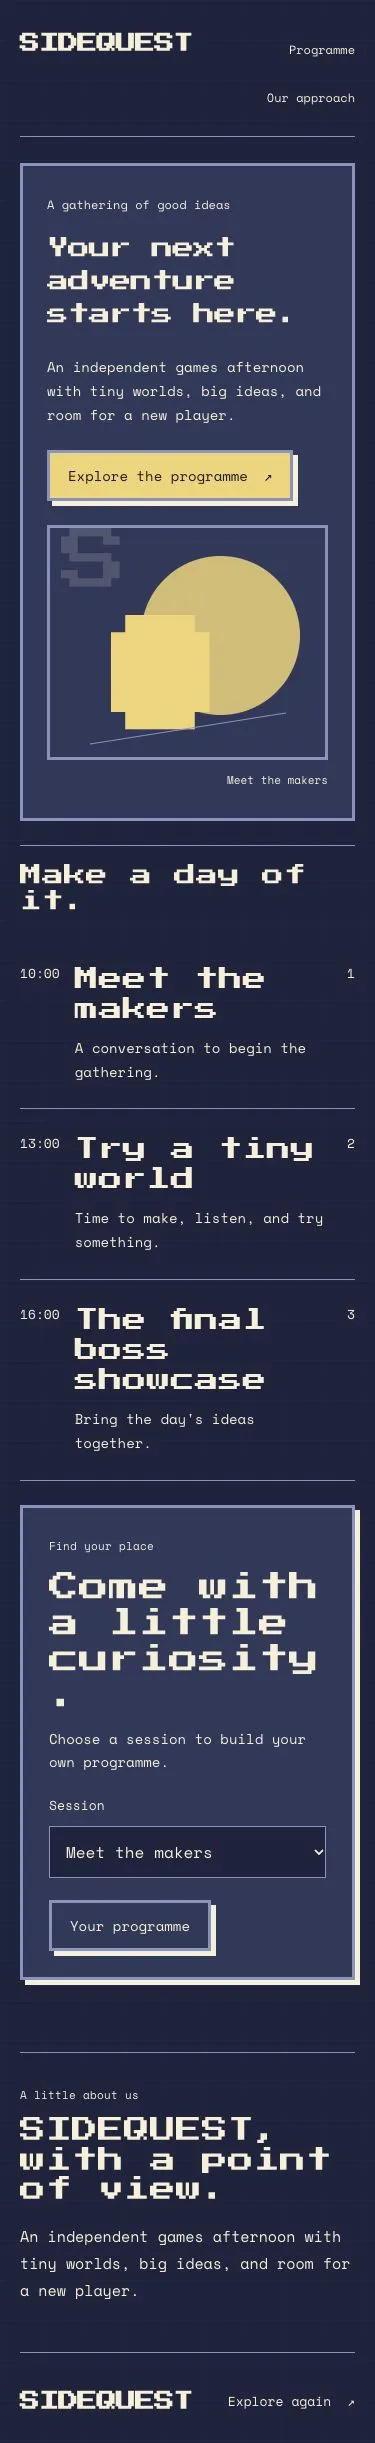
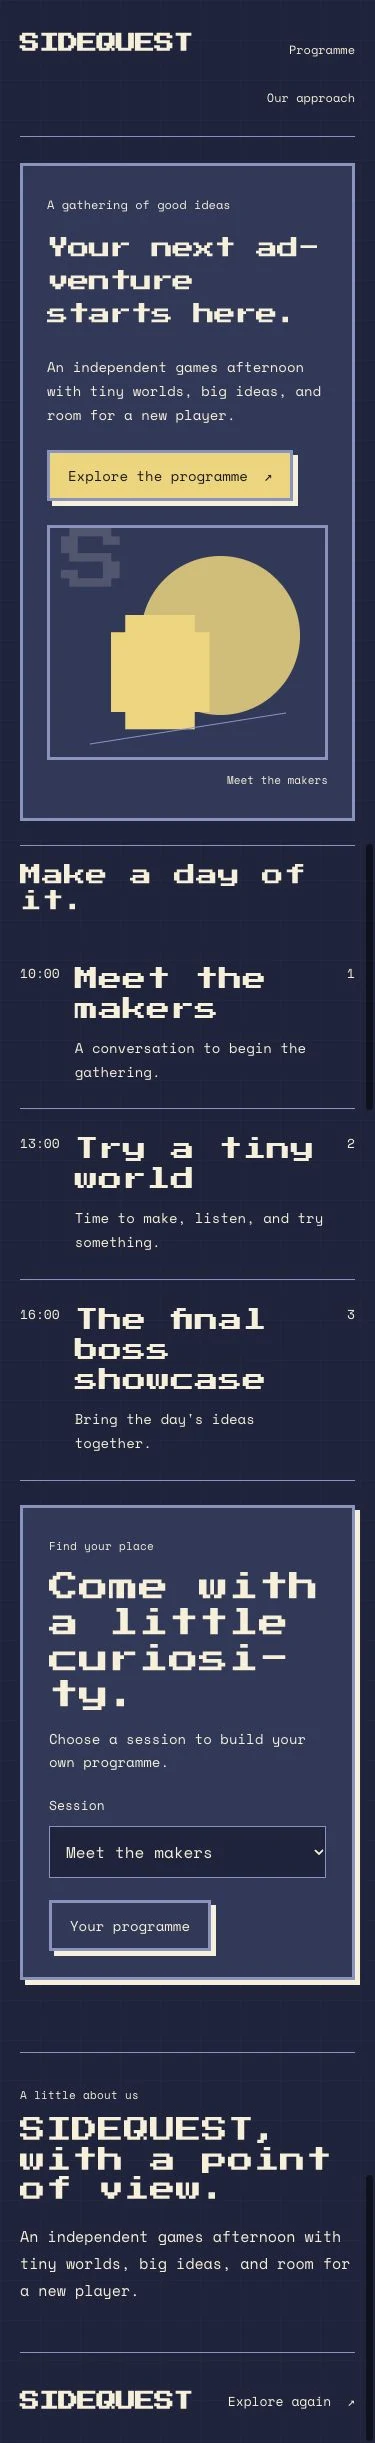
Refresh pixel-art references and synchronize its reusable skill assets.

diff --git a/skills/designkit-pixel-art/assets/shared/KitControls.tsx b/skills/designkit-pixel-art/assets/shared/KitControls.tsx
@@ -1,11 +1,14 @@
 "use client";
-
 import {
   useEffect,
   useId,
   useRef,
+  useState,
   type ButtonHTMLAttributes,
   type InputHTMLAttributes,
+  type HTMLAttributes,
+  type DialogHTMLAttributes,
+  type MouseEvent,
   type ReactNode,
 } from "react";
 
@@ -26,15 +29,16 @@ export function KitCard({
   label,
   children,
   action,
-}: {
-  title: string;
-  label?: string;
-  children?: ReactNode;
+  className = "",
+  ...props
+}: Omit<HTMLAttributes<HTMLElement>, "title"> & {
+  title: ReactNode;
+  label?: ReactNode;
   action?: ReactNode;
 }) {
   return (
-    <article className="kit-card">
-      <span className="kit-label">{label}</span>
+    <article {...props} className={`kit-card ${className}`}>
+      {label ? <span className="kit-label">{label}</span> : null}
       <h3>{title}</h3>
       {children}
       {action ? <div className="kit-card-action">{action}</div> : null}
@@ -44,18 +48,38 @@ export function KitCard({
 export function KitNavigation({
   brand,
   links,
-}: {
+  onNavigate,
+  className = "",
+  ...props
+}: HTMLAttributes<HTMLElement> & {
   brand: string;
   links: { label: string; href: string }[];
+  onNavigate?: (href: string, event: MouseEvent<HTMLAnchorElement>) => void;
 }) {
   return (
-    <nav className="kit-navigation" aria-label={`${brand} example navigation`}>
-      <a className="kit-brand" href={links[0]?.href}>
-        {brand}
-      </a>
+    <nav
+      {...props}
+      className={`kit-navigation ${className}`}
+      aria-label={props["aria-label"] || `${brand} navigation`}
+    >
+      {links[0]?.href ? (
+        <a
+          className="kit-brand"
+          href={links[0].href}
+          onClick={(event) => onNavigate?.(links[0].href, event)}
+        >
+          {brand}
+        </a>
+      ) : (
+        <span className="kit-brand">{brand}</span>
+      )}
       <div>
-        {links.map((link) => (
-          <a key={link.label} href={link.href}>
+        {links.map((link, index) => (
+          <a
+            key={`${link.href}:${index}`}
+            href={link.href}
+            onClick={(event) => onNavigate?.(link.href, event)}
+          >
             {link.label}
           </a>
         ))}
@@ -69,16 +93,20 @@ export function KitField({
   id,
   ...props
 }: InputHTMLAttributes<HTMLInputElement> & { label: string; error?: string }) {
-  const generated = useId();
-  const fieldId = id || generated;
+  const generated = useId(),
+    fieldId = id || generated;
+  const describedBy =
+    [props["aria-describedby"], error ? `${fieldId}-error` : undefined]
+      .filter(Boolean)
+      .join(" ") || undefined;
   return (
     <div className="kit-field">
       <label htmlFor={fieldId}>{label}</label>
       <input
         {...props}
         id={fieldId}
-        aria-invalid={Boolean(error)}
-        aria-describedby={error ? `${fieldId}-error` : undefined}
+        aria-invalid={error ? true : props["aria-invalid"]}
+        aria-describedby={describedBy}
       />
       {error ? (
         <p id={`${fieldId}-error`} className="kit-field-error">
@@ -91,43 +119,100 @@ export function KitField({
 export function KitStatus({
   state,
   children,
-}: {
+  className = "",
+  ...props
+}: HTMLAttributes<HTMLParagraphElement> & {
   state: "loading" | "empty" | "error" | "success";
-  children: ReactNode;
 }) {
   return (
     <p
-      className={`kit-status kit-status-${state}`}
-      role={state === "error" ? "alert" : "status"}
+      {...props}
+      className={`kit-status kit-status-${state} ${className}`}
+      role={props.role || (state === "error" ? "alert" : "status")}
     >
       {children}
     </p>
   );
 }
+const bodyLocks = new WeakMap<
+  HTMLElement,
+  { count: number; overflow: string }
+>();
+function lockBody(body: HTMLElement) {
+  const lock = bodyLocks.get(body) || {
+    count: 0,
+    overflow: body.style.overflow,
+  };
+  lock.count++;
+  bodyLocks.set(body, lock);
+  body.style.overflow = "hidden";
+  let released = false;
+  return () => {
+    if (released) return;
+    released = true;
+    lock.count--;
+    if (!lock.count) {
+      body.style.overflow = lock.overflow;
+      bodyLocks.delete(body);
+    }
+  };
+}
+type KitDialogProps = Omit<
+  DialogHTMLAttributes<HTMLDialogElement>,
+  "title" | "open"
+> & { title: ReactNode; trigger: ReactNode } & (
+    | { open?: undefined; onOpenChange?: (open: boolean) => void }
+    | { open: boolean; onOpenChange: (open: boolean) => void }
+  );
 export function KitDialog({
   trigger,
   title,
   children,
-}: {
-  trigger: string;
-  title: string;
-  children: ReactNode;
-}) {
-  const dialog = useRef<HTMLDialogElement>(null);
-  const opener = useRef<HTMLButtonElement>(null);
-  const previousOverflow = useRef<string | null>(null);
-  const titleId = useId();
-  const restore = () => {
-    if (previousOverflow.current !== null) {
-      document.body.style.overflow = previousOverflow.current;
-      previousOverflow.current = null;
-    }
-    opener.current?.focus({ preventScroll: true });
+  open,
+  onOpenChange,
+  className = "",
+  onClose,
+  onCancel,
+  ...props
+}: KitDialogProps) {
+  const dialog = useRef<HTMLDialogElement>(null),
+    opener = useRef<HTMLButtonElement>(null);
+  const previousFocus = useRef<HTMLElement | null>(null),
+    release = useRef<(() => void) | null>(null);
+  const [internalOpen, setInternalOpen] = useState(false);
+  const isOpen = open ?? internalOpen,
+    titleId = useId();
+  const request = (next: boolean) => {
+    if (open === undefined) setInternalOpen(next);
+    onOpenChange?.(next);
   };
+  const restore = () => {
+    release.current?.();
+    release.current = null;
+    const target = previousFocus.current?.isConnected
+      ? previousFocus.current
+      : opener.current;
+    if (target?.isConnected) target.focus({ preventScroll: true });
+    previousFocus.current = null;
+  };
+  useEffect(() => {
+    const element = dialog.current;
+    if (!element) return;
+    if (isOpen) {
+      if (!element.open) {
+        previousFocus.current ??=
+          document.activeElement instanceof HTMLElement
+            ? document.activeElement
+            : opener.current;
+        element.showModal();
+      }
+      if (!release.current) release.current = lockBody(document.body);
+    } else if (!isOpen && element.open) element.close();
+  }, [isOpen]);
   useEffect(
     () => () => {
-      if (previousOverflow.current !== null)
-        document.body.style.overflow = previousOverflow.current;
+      release.current?.();
+      release.current = null;
     },
     [],
   );
@@ -137,21 +222,27 @@ export function KitDialog({
         ref={opener}
         className="kit-button kit-button-secondary"
         type="button"
+        aria-haspopup="dialog"
         onClick={() => {
-          previousOverflow.current = document.body.style.overflow;
-          dialog.current?.showModal();
-          document.body.style.overflow = "hidden";
+          previousFocus.current = opener.current;
+          request(true);
         }}
       >
         {trigger}
       </button>
       <dialog
-        className="kit-dialog"
+        {...props}
+        className={`kit-dialog ${className}`}
         ref={dialog}
-        aria-labelledby={titleId}
-        onClose={restore}
+        aria-labelledby={props["aria-labelledby"] || titleId}
+        onCancel={(event) => onCancel?.(event)}
+        onClose={(event) => {
+          restore();
+          if (isOpen) request(false);
+          onClose?.(event);
+        }}
       >
-        <div>
+        <div className="kit-dialog-heading">
           <h3 id={titleId}>{title}</h3>
           <button
             type="button"

diff --git a/skills/designkit-pixel-art/assets/shared/ExampleCanvas.tsx b/skills/designkit-pixel-art/assets/shared/ExampleCanvas.tsx
@@ -1,6 +1,6 @@
 "use client";
 
-import { useId, useState, type CSSProperties } from "react";
+import { useId, useState, type CSSProperties, type MouseEvent } from "react";
 import type {
   DesignExample,
   PlaygroundSettings,
@@ -62,10 +62,19 @@ export default function ExampleCanvas({
     `${item.title} ${item.label}`.toLowerCase().includes(query.toLowerCase()),
   );
   const headline = normalized.headline;
-  const goToContent = () =>
-    document
-      .getElementById(sectionId)
-      ?.scrollIntoView({ behavior: "instant", block: "start" });
+  const focusSection = (id: string) => {
+    const target = document.getElementById(id);
+    target?.scrollIntoView({ behavior: "instant", block: "start" });
+    target?.focus({ preventScroll: true });
+  };
+  const navigateWithinExample = (
+    href: string,
+    event: MouseEvent<HTMLAnchorElement>,
+  ) => {
+    event.preventDefault();
+    focusSection(href.slice(1));
+  };
+  const goToContent = () => focusSection(sectionId);
   const contextLabel = {
     shop: "A considered collection",
     journal: "An independent journal",
@@ -90,6 +99,7 @@ export default function ExampleCanvas({
     >
       <KitNavigation
         brand={example.brand}
+        onNavigate={navigateWithinExample}
         links={[
           {
             label:
@@ -322,14 +332,17 @@ export default function ExampleCanvas({
           </>
         )}
       </section>
-      <section id={aboutId} className="kit-about">
+      <section id={aboutId} className="kit-about" tabIndex={-1}>
         <span className="kit-label">A little about us</span>
         <h3>{example.brand}, with a point of view.</h3>
         <p>{example.description}</p>
       </section>
       <footer className="kit-footer">
         <span className="kit-brand">{example.brand}</span>
-        <a href={`#${sectionId}`}>
+        <a
+          href={`#${sectionId}`}
+          onClick={(event) => navigateWithinExample(`#${sectionId}`, event)}
+        >
           Explore again <span aria-hidden="true">↗</span>
         </a>
       </footer>

diff --git a/skills/designkit-pixel-art/assets/shared/kit.css b/skills/designkit-pixel-art/assets/shared/kit.css
@@ -42,6 +42,7 @@
   font-family: var(--dk-heading), serif;
   font-synthesis: none;
   overflow-wrap: anywhere;
+  hyphens: auto;
 }
 .kit-canvas :is(button, a, input, select, textarea):focus-visible,
 .kit-component-surface :is(button, a, input, select, textarea):focus-visible {
@@ -353,6 +354,11 @@
   background: var(--dk-canvas);
 }
 .kit-dialog {
+  margin: auto;
+  max-height: calc(100dvh - 48px);
+  overflow: auto;
+  overscroll-behavior: contain;
+  overflow-wrap: anywhere;
   max-width: min(520px, calc(100vw - 40px));
   padding: 28px;
   color: var(--dk-ink);
@@ -365,7 +371,7 @@
 .kit-dialog::backdrop {
   background: rgb(0 0 0 / 0.45);
 }
-.kit-dialog > div {
+.kit-dialog-heading {
   display: flex;
   justify-content: space-between;
   gap: 20px;

diff --git a/skills/designkit-pixel-art/assets/shared/tokens.ts b/skills/designkit-pixel-art/assets/shared/tokens.ts
@@ -3,6 +3,7 @@ import type {
   PlaygroundSettings,
   StyleRecipe,
 } from "./types";
+import { kitVersion } from "./types";
 
 export const fontFamilies = [
   "Archivo Black",
@@ -258,7 +259,7 @@ export function exportDesignTokens(
       "dev.designkit": {
         exampleId: example.id,
         styleId: example.styleId,
-        version: "2.0.0",
+        version: kitVersion,
         settings,
         cssShadow: values["--dk-shadow"],
       },
